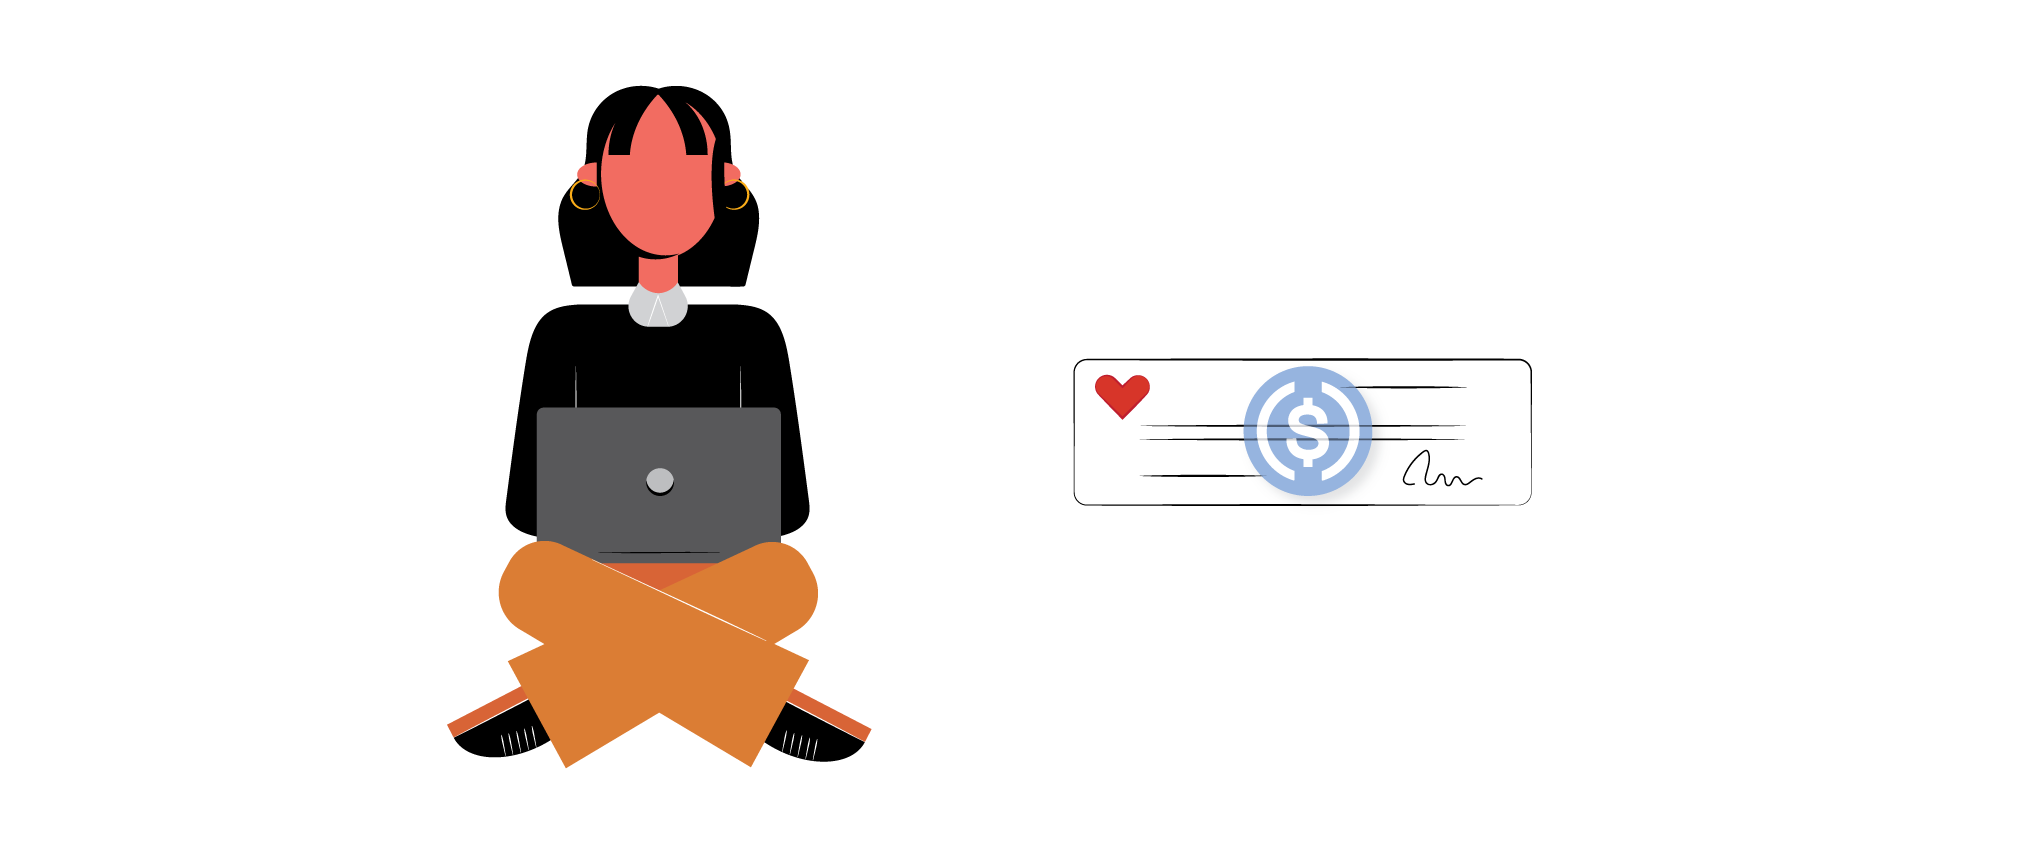
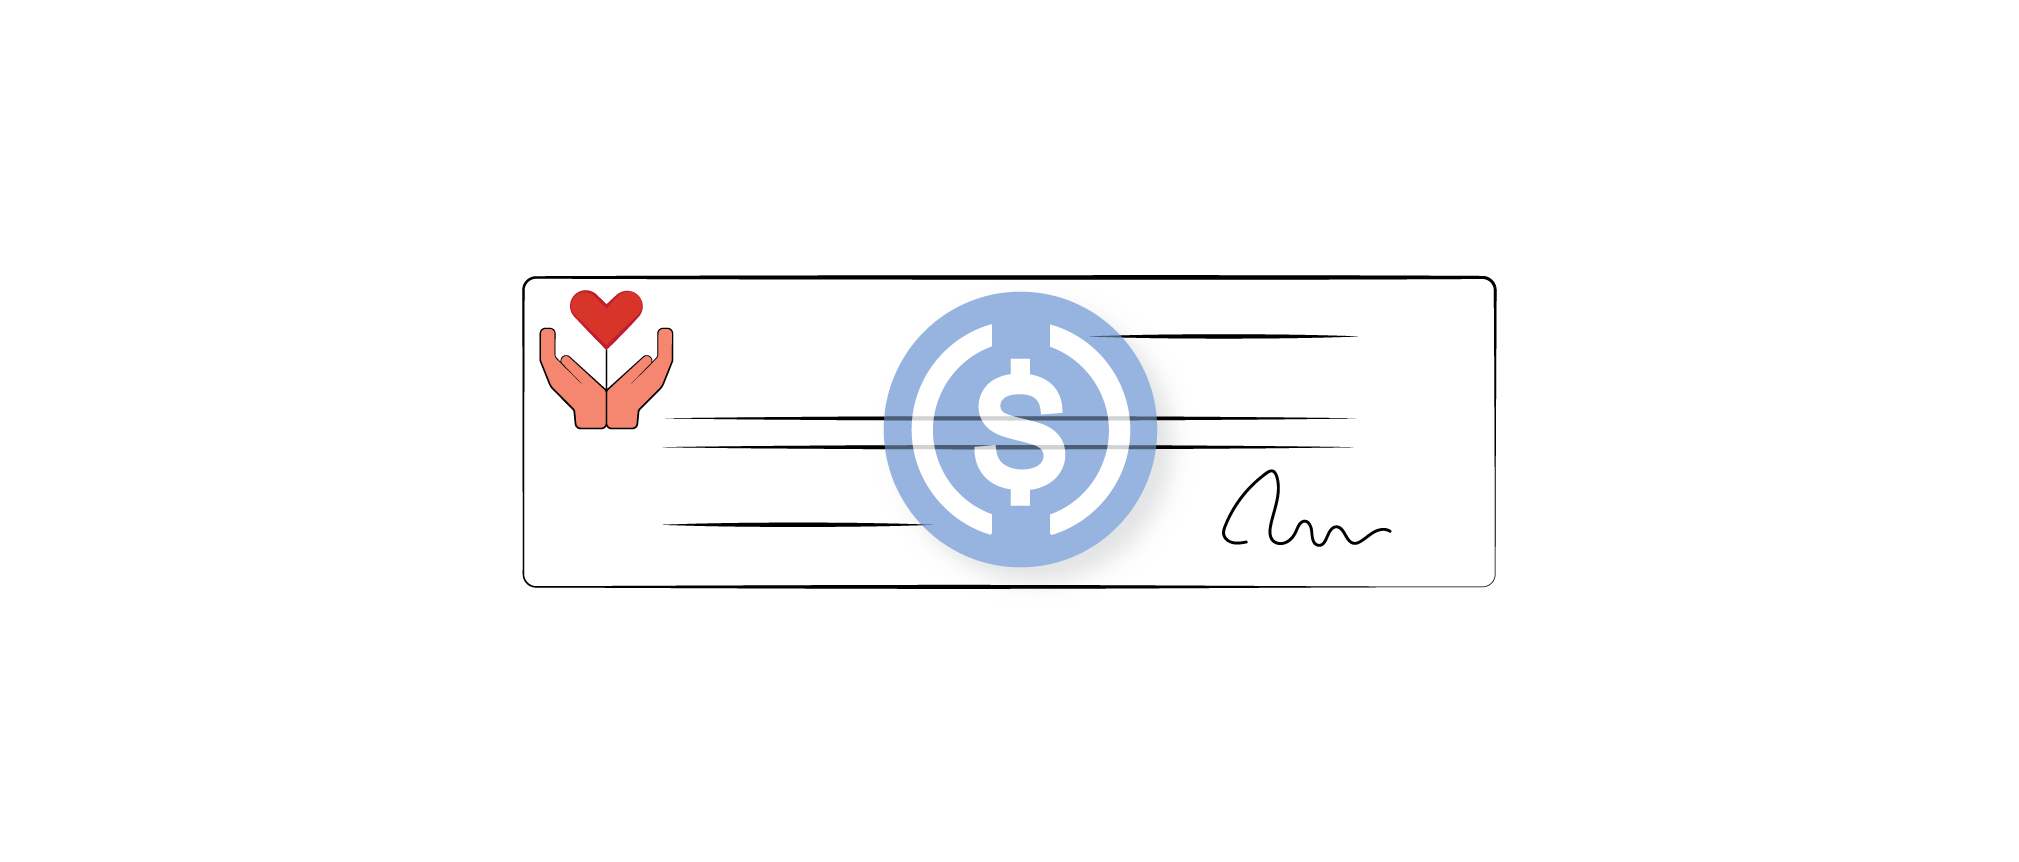
changing image assets

Changed region(s): [[0.2184, 0.0905, 0.7489, 0.9049], [0.7177, 0.5731, 0.7489, 0.6032]]

diff --git a/src/splash/splash.js b/src/splash/splash.js
@@ -51,7 +51,8 @@ class Splash extends React.Component {
           <LearnMoreWrapper id="about">
             <SectionLabel style={{ backgroundColor: "white" }}>
               <Header>
-                The easiest way to support your favorite causes with crypto.
+                The fastest growing philanthropic vehicle is coming to the DeFi
+                community.
               </Header>
             </SectionLabel>
             <RightSectionWrapper>
@@ -106,8 +107,8 @@ class Splash extends React.Component {
             <RightSectionWrapper></RightSectionWrapper>
             <SectionLabel>
               <Header>
-                The fastest growing philanthropic vehicle is now available to
-                the DeFi community.
+                Support your favorite causes & organizations in USD while
+                donating crypto in its original form.
               </Header>
             </SectionLabel>
             <ThreeUp>
@@ -162,6 +163,7 @@ class Splash extends React.Component {
                 backgroundColor: "white",
                 margin: "0rem",
                 paddingTop: "3rem",
+                borderRadius: "4px",
               }}
             >
               <Label basic size="small" color="black">
@@ -170,8 +172,8 @@ class Splash extends React.Component {
               <br />
               <SectionHeader>Ready to give?</SectionHeader>
               <Subtitle>
-                Sign-up for access to the mainnet beta or try out our latest app
-                on the Rinkeby test network
+                Sign-up to access the mainnet beta or try our latest app on the
+                Rinkeby test network
               </Subtitle>
               <ButtonBlock>
                 <a
@@ -255,7 +257,7 @@ const HomePageWrapper = styled.div`
 
 const Header = styled.p`
   font-weight: 600;
-  font-size: 4rem;
+  font-size: 3rem;
   width: 60vw;
   padding-top: 10rem;
   padding-bottom: 5rem;
@@ -456,7 +458,6 @@ const FullscreenWrapper = styled.div`
 `;
 const Footer = styled.div`
   background-color: white;
-  box-shadow: 0 15px 30px 1px grey;
   padding: 2rem 0 1rem 0;
   width: 100vw;
   dispay: flex;
